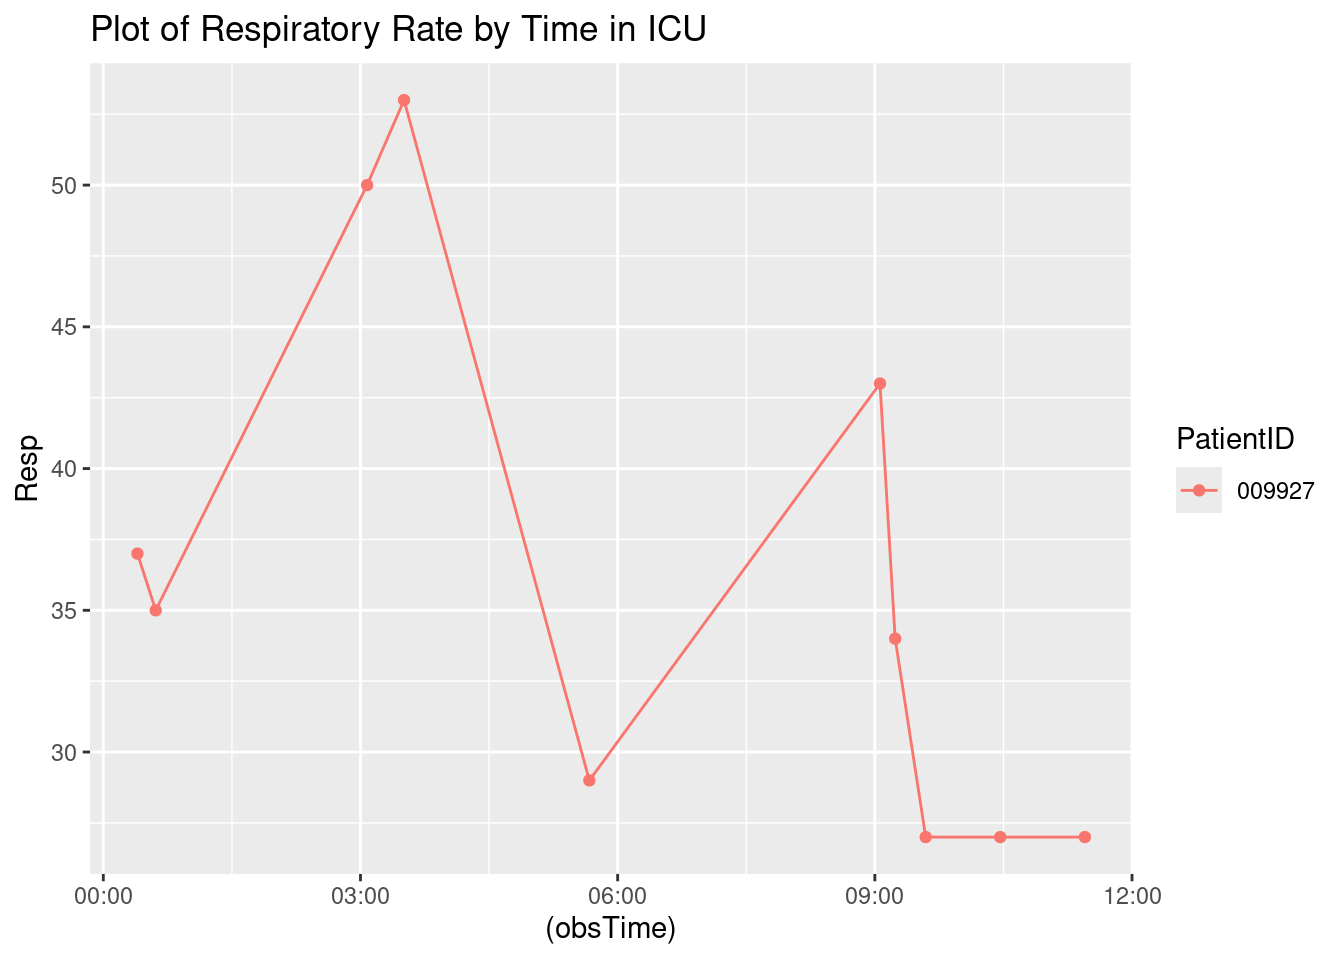
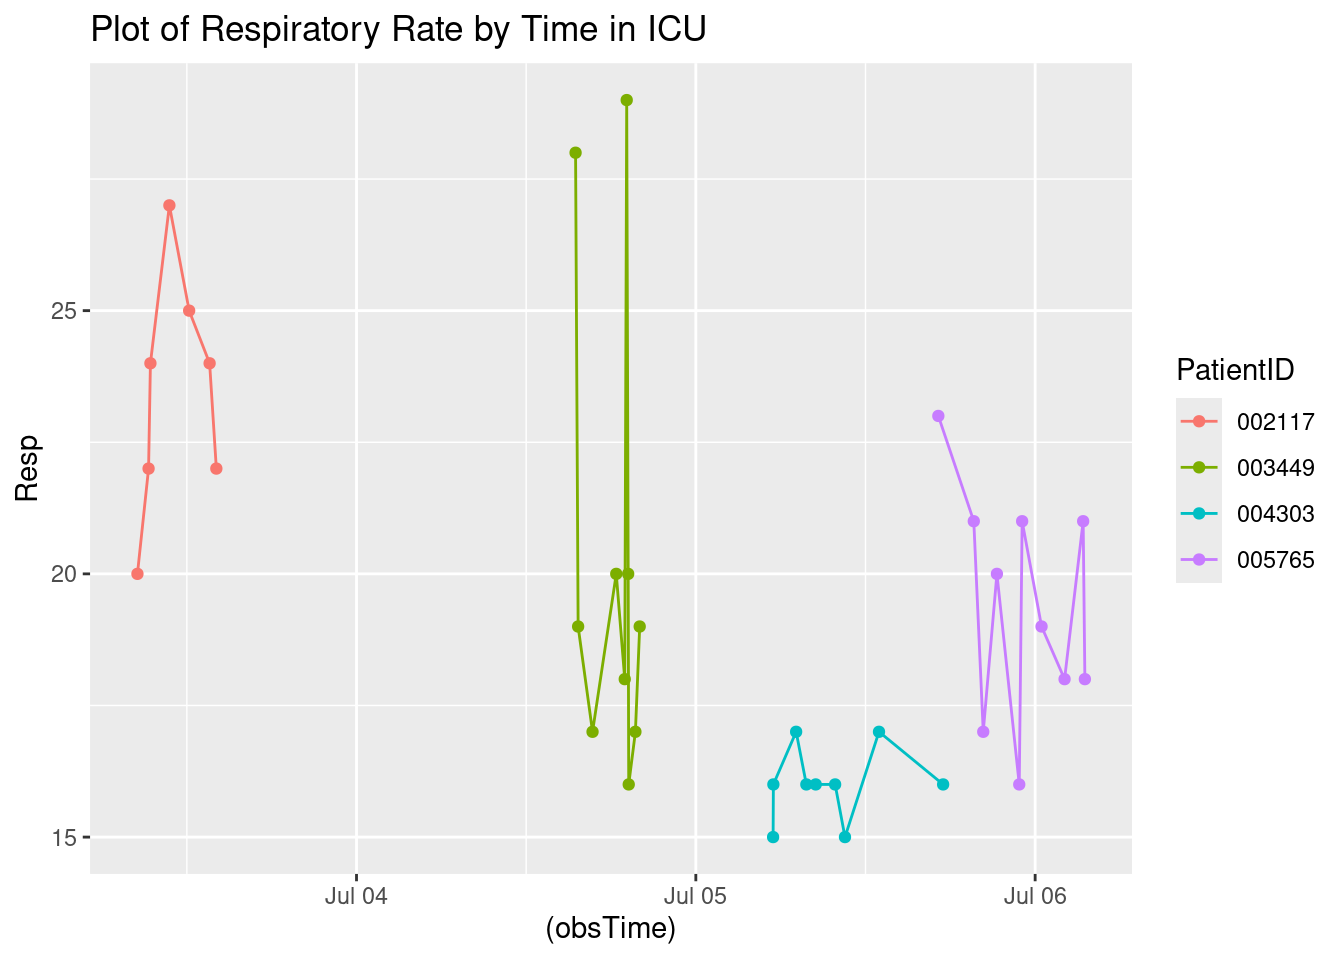
Updated report

diff --git a/A7.html b/A7.html
@@ -116,7 +116,7 @@ pre > code.sourceCode > span > a:first-child::before { text-decoration: underlin
 </div>
 <div class="sourceCode cell-code" id="cb4"><pre class="sourceCode r code-with-copy"><code class="sourceCode r"><span id="cb4-1"><a href="#cb4-1" aria-hidden="true" tabindex="-1"></a><span class="fu">toc</span>()</span></code><button title="Copy to Clipboard" class="code-copy-button"><i class="bi"></i></button></pre></div>
 <div class="cell-output cell-output-stdout">
-<pre><code>19.531 sec elapsed</code></pre>
+<pre><code>14.764 sec elapsed</code></pre>
 </div>
 <div class="sourceCode cell-code" id="cb6"><pre class="sourceCode r code-with-copy"><code class="sourceCode r"><span id="cb6-1"><a href="#cb6-1" aria-hidden="true" tabindex="-1"></a><span class="fu">tic</span>()</span>
 <span id="cb6-2"><a href="#cb6-2" aria-hidden="true" tabindex="-1"></a>test1<span class="ot">=</span><span class="fu">makeSepsisDataset</span>(<span class="at">n=</span><span class="dv">50</span>,<span class="at">read_fn =</span> <span class="st">"read_delim"</span>)</span>
@@ -126,7 +126,7 @@ pre > code.sourceCode > span > a:first-child::before { text-decoration: underlin
 </div>
 <div class="sourceCode cell-code" id="cb8"><pre class="sourceCode r code-with-copy"><code class="sourceCode r"><span id="cb8-1"><a href="#cb8-1" aria-hidden="true" tabindex="-1"></a><span class="fu">toc</span>()</span></code><button title="Copy to Clipboard" class="code-copy-button"><i class="bi"></i></button></pre></div>
 <div class="cell-output cell-output-stdout">
-<pre><code>9.748 sec elapsed</code></pre>
+<pre><code>11.529 sec elapsed</code></pre>
 </div>
 <div class="sourceCode cell-code" id="cb10"><pre class="sourceCode r code-with-copy"><code class="sourceCode r"><span id="cb10-1"><a href="#cb10-1" aria-hidden="true" tabindex="-1"></a><span class="co"># n=100</span></span>
 <span id="cb10-2"><a href="#cb10-2" aria-hidden="true" tabindex="-1"></a><span class="fu">tic</span>()</span>
@@ -137,7 +137,7 @@ pre > code.sourceCode > span > a:first-child::before { text-decoration: underlin
 </div>
 <div class="sourceCode cell-code" id="cb12"><pre class="sourceCode r code-with-copy"><code class="sourceCode r"><span id="cb12-1"><a href="#cb12-1" aria-hidden="true" tabindex="-1"></a><span class="fu">toc</span>()</span></code><button title="Copy to Clipboard" class="code-copy-button"><i class="bi"></i></button></pre></div>
 <div class="cell-output cell-output-stdout">
-<pre><code>33.97 sec elapsed</code></pre>
+<pre><code>24.416 sec elapsed</code></pre>
 </div>
 <div class="sourceCode cell-code" id="cb14"><pre class="sourceCode r code-with-copy"><code class="sourceCode r"><span id="cb14-1"><a href="#cb14-1" aria-hidden="true" tabindex="-1"></a><span class="fu">tic</span>()</span>
 <span id="cb14-2"><a href="#cb14-2" aria-hidden="true" tabindex="-1"></a>test1<span class="ot">=</span><span class="fu">makeSepsisDataset</span>(<span class="at">n=</span><span class="dv">100</span>,<span class="at">read_fn =</span> <span class="st">"read_delim"</span>)</span>
@@ -147,7 +147,7 @@ pre > code.sourceCode > span > a:first-child::before { text-decoration: underlin
 </div>
 <div class="sourceCode cell-code" id="cb16"><pre class="sourceCode r code-with-copy"><code class="sourceCode r"><span id="cb16-1"><a href="#cb16-1" aria-hidden="true" tabindex="-1"></a><span class="fu">toc</span>()</span></code><button title="Copy to Clipboard" class="code-copy-button"><i class="bi"></i></button></pre></div>
 <div class="cell-output cell-output-stdout">
-<pre><code>16.826 sec elapsed</code></pre>
+<pre><code>22.472 sec elapsed</code></pre>
 </div>
 <div class="sourceCode cell-code" id="cb18"><pre class="sourceCode r code-with-copy"><code class="sourceCode r"><span id="cb18-1"><a href="#cb18-1" aria-hidden="true" tabindex="-1"></a><span class="co"># n=500</span></span>
 <span id="cb18-2"><a href="#cb18-2" aria-hidden="true" tabindex="-1"></a><span class="fu">tic</span>()</span>
@@ -158,7 +158,7 @@ pre > code.sourceCode > span > a:first-child::before { text-decoration: underlin
 </div>
 <div class="sourceCode cell-code" id="cb20"><pre class="sourceCode r code-with-copy"><code class="sourceCode r"><span id="cb20-1"><a href="#cb20-1" aria-hidden="true" tabindex="-1"></a><span class="fu">toc</span>()</span></code><button title="Copy to Clipboard" class="code-copy-button"><i class="bi"></i></button></pre></div>
 <div class="cell-output cell-output-stdout">
-<pre><code>164.629 sec elapsed</code></pre>
+<pre><code>129.83 sec elapsed</code></pre>
 </div>
 <div class="sourceCode cell-code" id="cb22"><pre class="sourceCode r code-with-copy"><code class="sourceCode r"><span id="cb22-1"><a href="#cb22-1" aria-hidden="true" tabindex="-1"></a><span class="fu">tic</span>()</span>
 <span id="cb22-2"><a href="#cb22-2" aria-hidden="true" tabindex="-1"></a>test1<span class="ot">=</span><span class="fu">makeSepsisDataset</span>(<span class="at">n=</span><span class="dv">500</span>,<span class="at">read_fn =</span> <span class="st">"read_delim"</span>)</span>
@@ -168,7 +168,7 @@ pre > code.sourceCode > span > a:first-child::before { text-decoration: underlin
 </div>
 <div class="sourceCode cell-code" id="cb24"><pre class="sourceCode r code-with-copy"><code class="sourceCode r"><span id="cb24-1"><a href="#cb24-1" aria-hidden="true" tabindex="-1"></a><span class="fu">toc</span>()</span></code><button title="Copy to Clipboard" class="code-copy-button"><i class="bi"></i></button></pre></div>
 <div class="cell-output cell-output-stdout">
-<pre><code>88.159 sec elapsed</code></pre>
+<pre><code>113.824 sec elapsed</code></pre>
 </div>
 </div>
 <p><strong>Task 3</strong></p>
@@ -194,7 +194,7 @@ pre > code.sourceCode > span > a:first-child::before { text-decoration: underlin
 <span id="cb28-4"><a href="#cb28-4" aria-hidden="true" tabindex="-1"></a></span>
 <span id="cb28-5"><a href="#cb28-5" aria-hidden="true" tabindex="-1"></a><span class="fu">Sys.time</span>()</span></code><button title="Copy to Clipboard" class="code-copy-button"><i class="bi"></i></button></pre></div>
 <div class="cell-output cell-output-stdout">
-<pre><code>[1] "2024-07-03 07:23:09 UTC"</code></pre>
+<pre><code>[1] "2024-07-03 08:30:21 UTC"</code></pre>
 </div>
 <div class="sourceCode cell-code" id="cb30"><pre class="sourceCode r code-with-copy"><code class="sourceCode r"><span id="cb30-1"><a href="#cb30-1" aria-hidden="true" tabindex="-1"></a>dfnew <span class="ot">&lt;-</span> df <span class="sc">%&gt;%</span></span>
 <span id="cb30-2"><a href="#cb30-2" aria-hidden="true" tabindex="-1"></a>  <span class="fu">subset</span>(SepsisLabel<span class="sc">==</span><span class="dv">1</span>)</span>
@@ -223,13 +223,40 @@ pre > code.sourceCode > span > a:first-child::before { text-decoration: underlin
 </thead>
 <tbody>
 <tr class="odd">
-<td style="text-align: left;">009927</td>
-<td style="text-align: right;">77</td>
-<td style="text-align: right;">88</td>
-<td style="text-align: right;">37.72</td>
-<td style="text-align: right;">27</td>
+<td style="text-align: left;">002117</td>
+<td style="text-align: right;">6</td>
+<td style="text-align: right;">66</td>
+<td style="text-align: right;">NA</td>
+<td style="text-align: right;">22</td>
 <td style="text-align: right;">1</td>
-<td style="text-align: left;">2024-07-06 11:26:59</td>
+<td style="text-align: left;">2024-07-03 14:05:10</td>
+</tr>
+<tr class="even">
+<td style="text-align: left;">003449</td>
+<td style="text-align: right;">37</td>
+<td style="text-align: right;">97</td>
+<td style="text-align: right;">NA</td>
+<td style="text-align: right;">19</td>
+<td style="text-align: right;">1</td>
+<td style="text-align: left;">2024-07-04 20:01:48</td>
+</tr>
+<tr class="odd">
+<td style="text-align: left;">004303</td>
+<td style="text-align: right;">57</td>
+<td style="text-align: right;">105</td>
+<td style="text-align: right;">NA</td>
+<td style="text-align: right;">16</td>
+<td style="text-align: right;">1</td>
+<td style="text-align: left;">2024-07-05 17:29:28</td>
+</tr>
+<tr class="even">
+<td style="text-align: left;">005765</td>
+<td style="text-align: right;">70</td>
+<td style="text-align: right;">71</td>
+<td style="text-align: right;">NA</td>
+<td style="text-align: right;">18</td>
+<td style="text-align: right;">1</td>
+<td style="text-align: left;">2024-07-06 03:31:01</td>
 </tr>
 </tbody>
 </table>
